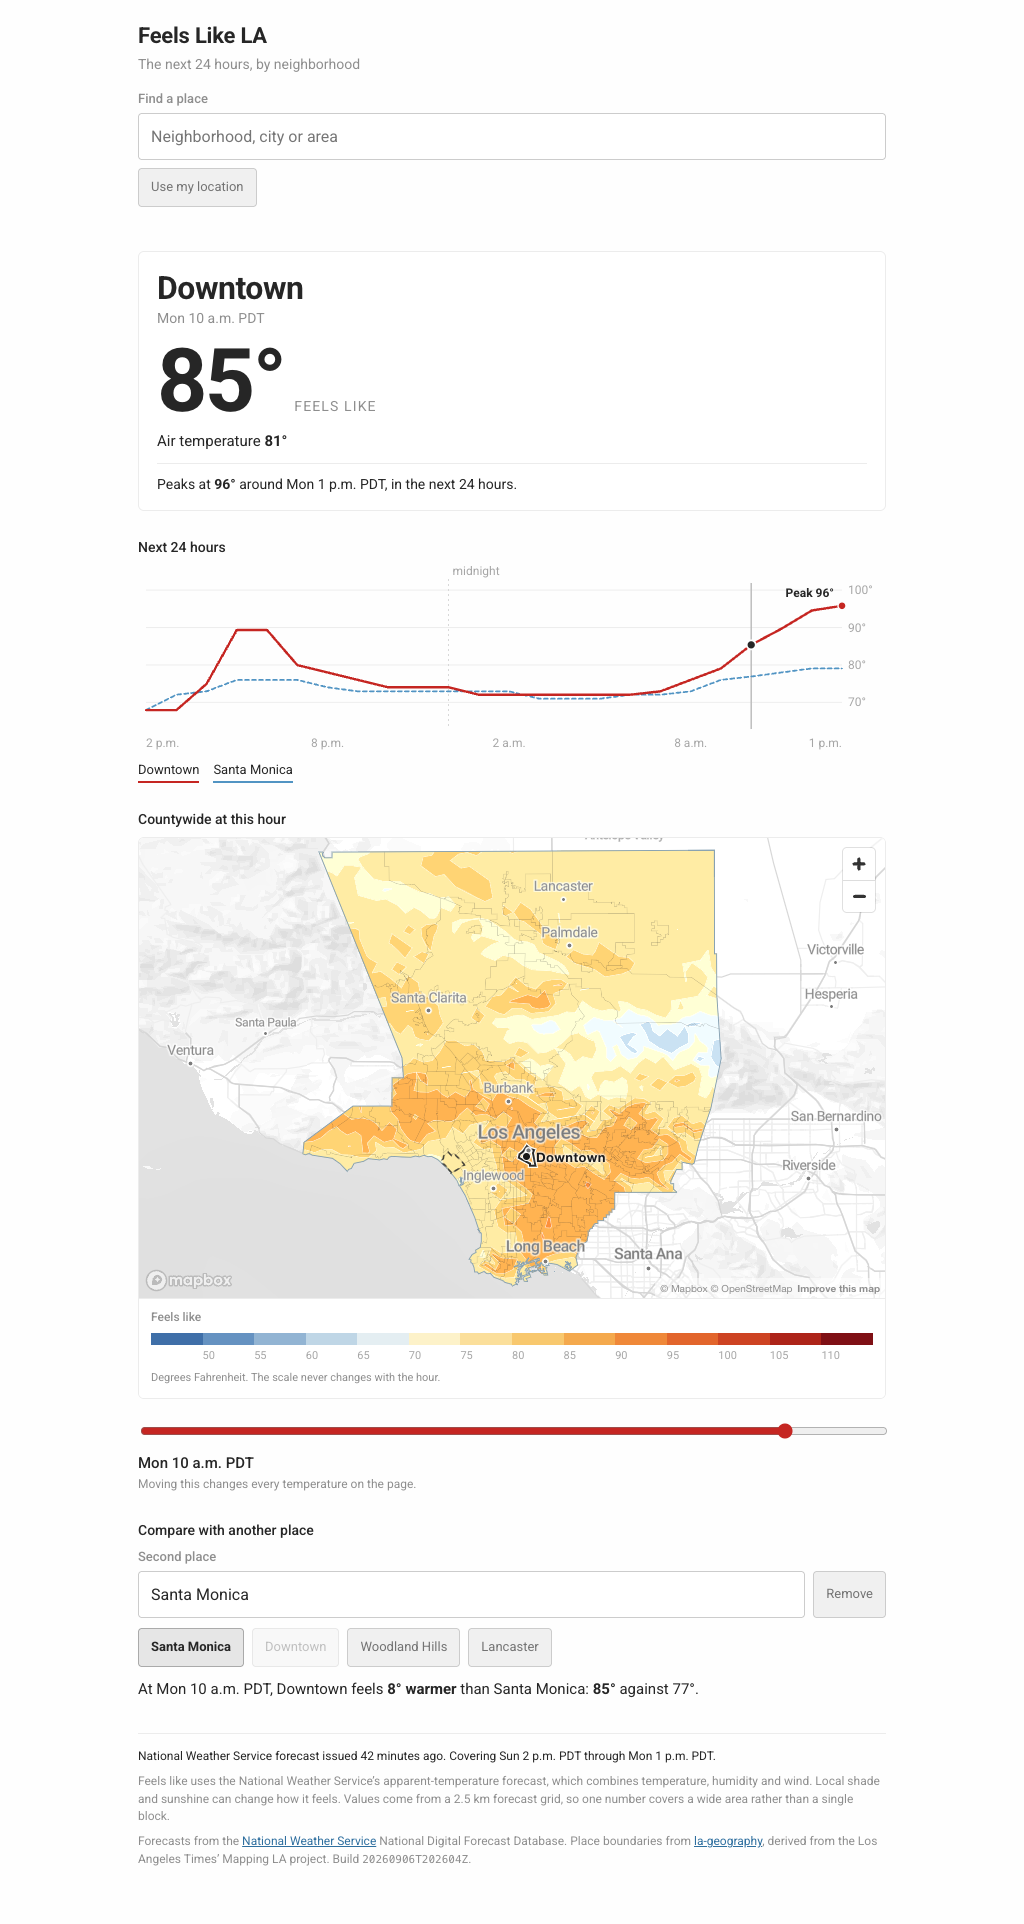
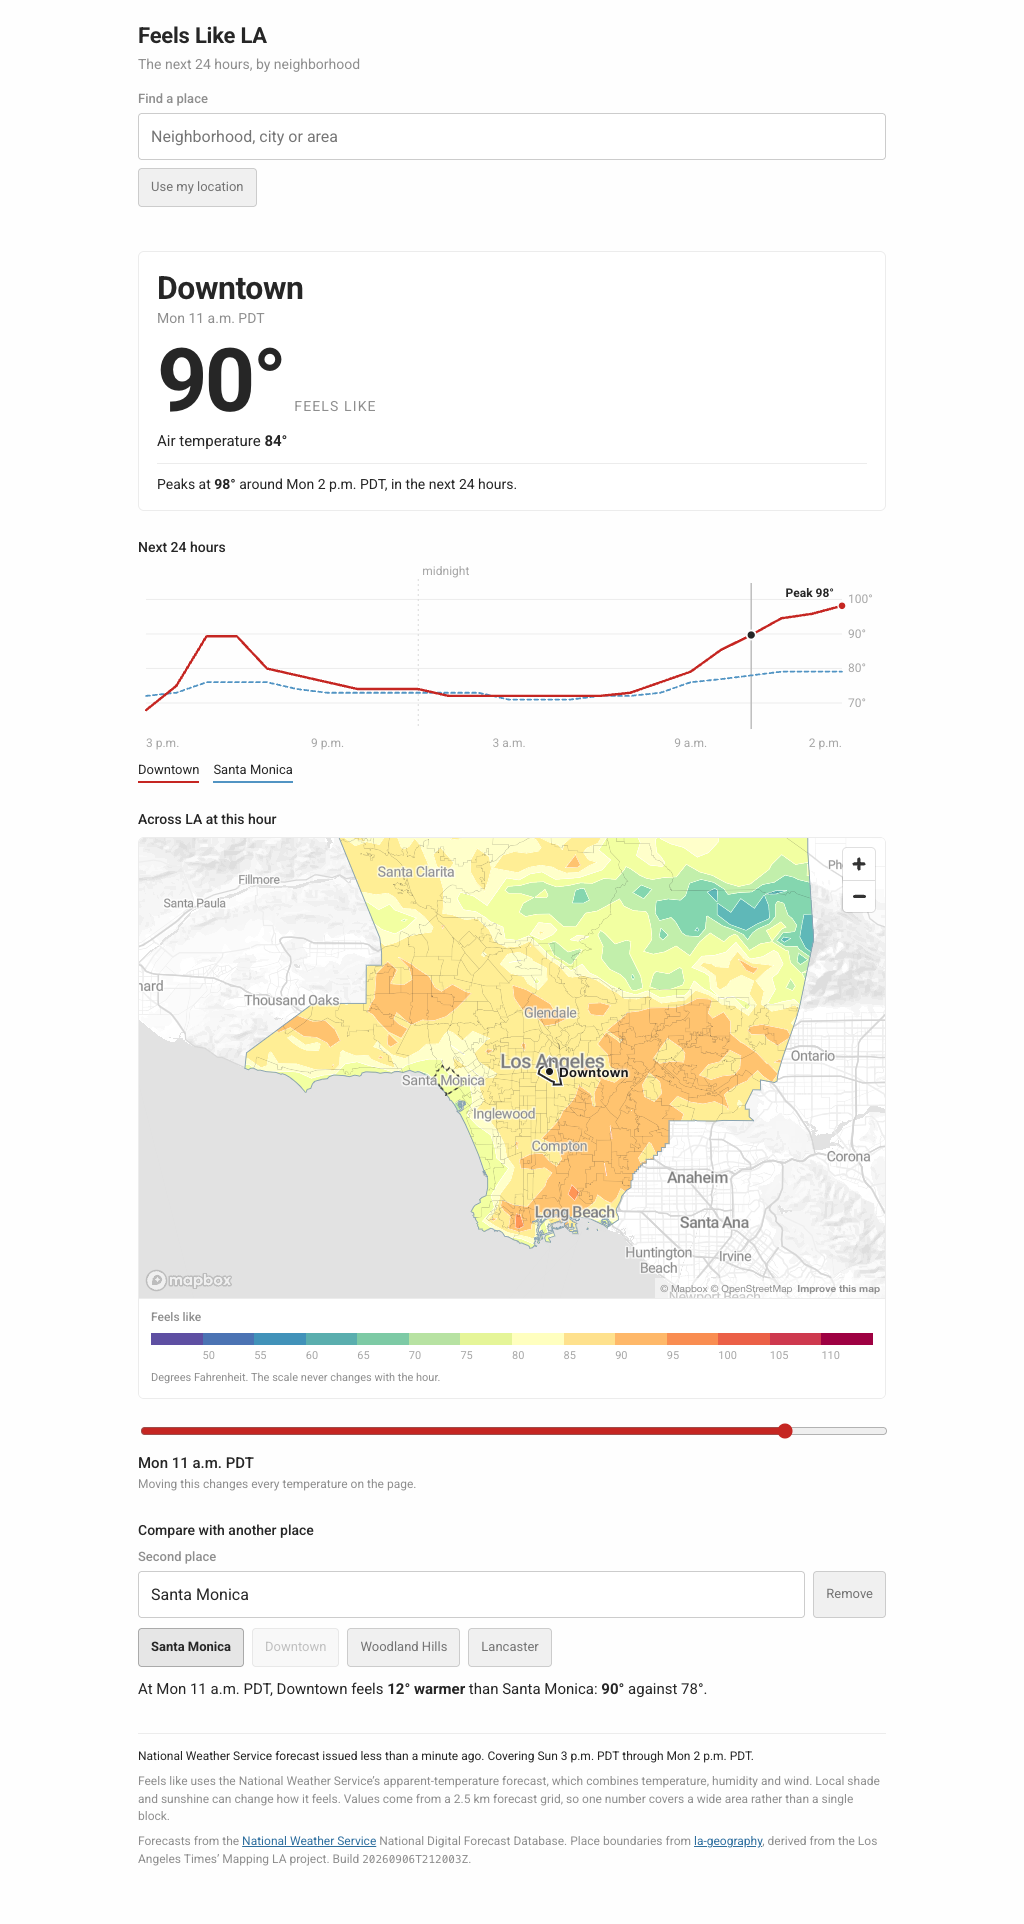
feat: open on metropolitan LA and switch to a Spectral palette
Framing. The map opened on the county's legal extent, which reaches the
Antelope Valley and San Clemente Island and leaves the basin a smear
across a tall, mostly empty map. It now opens on a fixed metro LA view:
the San Gabriels across the top, the Ventura county line west, Chino
Hills and the Orange County beaches east and south.

Lancaster, Palmdale, Acton and Avalon are still in the place index, so a
reader can select a place this view does not contain, and a highlighted
outline they cannot see is a map that looks broken. The map now pans to
a selection outside the frame, keeping its zoom, and a reset control
brings LA back. A smoke check searches Lancaster by keyboard and asserts
the map went and got it. The map heading is no longer "Countywide",
because it is not.

Framing from a constant also means the first paint is the right view
rather than a guessed center that jumped when county.geojson landed.

Palette. ColorBrewer Spectral, reversed, resampled from its 11 stops to
14 classes. Resampled by perceptual arc length, not by evenly spaced
index: Spectral's curve barely moves through its pale middle, and an
evenly indexed sample put two classes 7.3 apart in Lab, under the 8.0
the validator requires. By arc length the closest pair is 16.4, and the
samples still land on Spectral's endpoints and its #ffffbf midpoint.

Two properties of the new ramp are recorded in the config, because they
are not true of the ramp it replaced: it is not monotonic in lightness,
[…]

diff --git a/web/src/map.ts b/web/src/map.ts
@@ -25,9 +25,24 @@ const TOKEN = import.meta.env.VITE_MAPBOX_TOKEN ?? '';
 const STYLE =
   import.meta.env.VITE_MAPBOX_STYLE ?? 'mapbox://styles/stiles/cmiuh91nz003q01su2wd5b64l';
 
-// A first view for the moment before the county silhouette arrives, after which the map
-// frames itself from the real geometry.
-const OPENING_VIEW = { center: [-118.29, 34.19] as [number, number], zoom: 8.1 };
+/**
+ * The opening view: metropolitan Los Angeles, not the county's legal extent.
+ *
+ * The San Gabriels across the top, the Ventura county line and Point Mugu on the west,
+ * Chino Hills and the Orange County beaches on the east and south. It is where nearly
+ * everyone who opens this lives, and it is where the interesting gradient is: forty
+ * degrees between the beach and the valley on a September afternoon.
+ *
+ * What it leaves out is deliberate. The county reaches to the Antelope Valley and out to
+ * San Clemente Island, and framing all of that makes the basin a smear across the middle
+ * of a tall, mostly empty map. Lancaster, Palmdale, Acton and Avalon are all still in the
+ * place index and still searchable; the map pans to a selection that starts off screen,
+ * and the reset control brings this view back.
+ */
+const LA_VIEW: [[number, number], [number, number]] = [
+  [-119.15, 33.61],
+  [-117.52, 34.48],
+];
 
 // Read from the style at build time and overridden here rather than in Studio, because
 // these are this product's needs rather than the style's defaults.
@@ -76,8 +91,11 @@ export function createMap(container: HTMLElement, bundle: Bundle): MapView {
     // mercator: flat, predictable under fitBounds, and matching the projection the
     // contours were generated for.
     projection: 'mercator',
-    center: OPENING_VIEW.center,
-    zoom: OPENING_VIEW.zoom,
+    // Framed from the constant above rather than from the county geometry, so the first
+    // paint is already the right view instead of a guessed center that jumps when
+    // county.geojson lands.
+    bounds: LA_VIEW,
+    fitBoundsOptions: { padding: 0 },
     minZoom: 7.4,
     // The grid is 2.5 km. Past this the reader is zooming into a band edge that is an
     // interpolation, not a boundary anyone could stand on.
@@ -111,7 +129,6 @@ export function createMap(container: HTMLElement, bundle: Bundle): MapView {
   const applied: { frame?: unknown; outlines?: unknown; county?: unknown; filters?: string } = {};
   let basemap = withBasemap;
   let installed = false;
-  let framed = false;
   let fellBack = false;
 
   /** Add our sources and layers to whichever style is loaded. */
@@ -197,6 +214,28 @@ export function createMap(container: HTMLElement, bundle: Bundle): MapView {
   });
 
   const labels = createLabels(container, map, bundle, () => basemap);
+  const reset = createReset(container, map);
+
+  /**
+   * Bring a selection into view if the LA frame does not contain it.
+   *
+   * The Antelope Valley and Catalina are outside the opening view but inside the place
+   * index, so a reader who searches Lancaster would otherwise get a highlighted outline
+   * they cannot see and a map that looks broken. Panning keeps the current zoom: the
+   * question is where, not how close.
+   */
+  function reveal(point: { longitude: number; latitude: number }): void {
+    const screen = map.project([point.longitude, point.latitude]);
+    const margin = 48;
+    const outside =
+      screen.x < margin ||
+      screen.y < margin ||
+      screen.x > container.clientWidth - margin ||
+      screen.y > container.clientHeight - margin;
+    if (!outside) return;
+    map.easeTo({ center: [point.longitude, point.latitude], duration: 600 });
+    reset.offer();
+  }
 
   return {
     showFrame(frame) {
@@ -210,22 +249,15 @@ export function createMap(container: HTMLElement, bundle: Bundle): MapView {
     showCounty(collection) {
       wanted.county = collection;
       flush();
-      // Frame the county from its own geometry rather than a zoom chosen by eye, so a
-      // phone, a tablet and a desktop all open on the whole county. The Channel Islands
-      // are in the boundary and would pull the frame far south, so the bounds come from
-      // the mainland part.
-      const bounds = mainlandBounds(collection);
-      if (bounds && !framed) {
-        framed = true;
-        map.fitBounds(bounds, { padding: 12, animate: false, maxZoom: 10 });
-      }
       labels.place();
     },
     highlight(selection, comparison) {
       wanted.selected = selection?.slug ?? '';
       wanted.comparison = comparison ?? '';
       flush();
-      labels.select(selection ? mark(bundle, selection) : null);
+      const point = selection ? mark(bundle, selection) : null;
+      labels.select(point);
+      if (point) reveal(point);
     },
     resize() {
       map.resize();
@@ -473,44 +505,33 @@ function rendered(map: MapboxMap, layer: string): number {
 }
 
 /**
- * Bounds of the largest ring, which is the mainland county.
+ * A way back to the LA frame, shown only once the map has left it.
  *
- * Including Catalina and San Clemente would push the frame roughly 60 miles south and
- * leave the basin, where most readers are, in the top third of the map.
+ * A reader who pans to Palmdale, or who was taken there by a search, has no other way to
+ * recover the view they started with, and a control that is always there is one more
+ * thing to read on a phone.
  */
-function mainlandBounds(
-  collection: GeoJSON.FeatureCollection,
-): [[number, number], [number, number]] | null {
-  const geometry = collection.features[0]?.geometry;
-  if (!geometry) return null;
-  const polygons =
-    geometry.type === 'MultiPolygon'
-      ? geometry.coordinates
-      : geometry.type === 'Polygon'
-        ? [geometry.coordinates]
-        : [];
-  let best: GeoJSON.Position[] | null = null;
-  for (const polygon of polygons) {
-    const ring = polygon[0];
-    if (ring && (!best || ring.length > best.length)) best = ring;
-  }
-  if (!best) return null;
+function createReset(container: HTMLElement, map: MapboxMap) {
+  const button = document.createElement('button');
+  button.type = 'button';
+  button.className = 'map-reset';
+  button.textContent = 'Reset map';
+  button.hidden = true;
+  button.addEventListener('click', () => {
+    map.fitBounds(LA_VIEW, { padding: 0, duration: 600 });
+    button.hidden = true;
+  });
+  container.append(button);
 
-  let west = 180;
-  let south = 90;
-  let east = -180;
-  let north = -90;
-  for (const point of best) {
-    const [longitude, latitude] = point as [number, number];
-    west = Math.min(west, longitude);
-    east = Math.max(east, longitude);
-    south = Math.min(south, latitude);
-    north = Math.max(north, latitude);
+  // A drag or a zoom by the reader also earns the button. `moveend` fires for our own
+  // eased moves too, so the offer is idempotent.
+  map.on('dragend', () => offer());
+  map.on('zoomend', () => offer());
+
+  function offer(): void {
+    button.hidden = false;
   }
-  return [
-    [west, south],
-    [east, north],
-  ];
+  return { offer };
 }
 
 function overlaps(a: DOMRect, b: DOMRect): boolean {

diff --git a/web/src/main.ts b/web/src/main.ts
@@ -182,7 +182,8 @@ async function attachMap(bundle: Bundle): Promise<MapView | null> {
     createLegend(document.querySelector('#legend') as HTMLElement, bundle);
     container.setAttribute(
       'aria-label',
-      'Map of apparent temperature across Los Angeles County at the selected hour.',
+      'Map of apparent temperature across metropolitan Los Angeles at the selected hour. ' +
+        'It pans to a selected place outside this view.',
     );
     window.addEventListener('resize', () => view.resize());
     return view;

diff --git a/web/src/styles.css b/web/src/styles.css
@@ -445,6 +445,25 @@ a {
   background: #1a1a1a;
 }
 
+.map-reset {
+  position: absolute;
+  top: 10px;
+  left: 10px;
+  padding: 5px 9px;
+  border: 1px solid var(--rule);
+  border-radius: 4px;
+  background: #fff;
+  box-shadow: 0 1px 2px rgb(0 0 0 / 12%);
+  font: inherit;
+  font-size: 12px;
+  color: #262626;
+  cursor: pointer;
+}
+
+.map-reset:hover {
+  background: #f4f4f4;
+}
+
 /* Mapbox's controls, quieter. The attribution and logo stay: they are a condition of
    using the tiles. */
 #map-shell .mapboxgl-ctrl-attrib,

diff --git a/web/index.html b/web/index.html
@@ -36,7 +36,7 @@
       </section>
 
       <section class="panel map-panel" aria-labelledby="map-heading">
-        <h2 class="panel-heading" id="map-heading">Countywide at this hour</h2>
+        <h2 class="panel-heading" id="map-heading">Across LA at this hour</h2>
         <div id="map-shell">
           <div id="map" role="img"></div>
           <div id="legend" class="legend"></div>

diff --git a/docs/interface.md b/docs/interface.md
@@ -49,6 +49,24 @@ kept, so the protection that matters is a URL restriction on the token in the Ma
 account rather than secrecy. With `VITE_MAPBOX_TOKEN` empty the app takes the fallback
 path deliberately, which is how a contributor without a token gets a working map.
 
+**The map opens on metropolitan LA, not on the county.** The San Gabriels across the top,
+the Ventura county line on the west, Chino Hills and the Orange County beaches on the east
+and south. The county's legal extent reaches the Antelope Valley and out to San Clemente
+Island, and framing all of it makes the basin a smear across the middle of a tall, mostly
+empty map. This view is where nearly every reader is, and it is where the gradient is:
+forty degrees between the beach and the valley on a September afternoon.
+
+The consequence has to be handled rather than accepted. Lancaster, Palmdale, Acton and
+Avalon are in the place index and searchable, so a reader can select a place the opening
+view does not contain, and a highlighted outline they cannot see is a map that looks
+broken. So the map pans to a selection that falls outside the frame, keeping its zoom —
+the question is where, not how close — and a reset control appears to bring LA back. A
+smoke check searches Lancaster by keyboard and asserts the map went and got it.
+
+Framing from a constant rather than from the county geometry also means the first paint is
+already the right view, instead of a guessed center that jumps when `county.geojson`
+lands.
+
 **Labels are HTML, not a symbol layer.** The selected place is always labeled by us, in
 the page's own webfont: it is the one name the reader is hunting for, and no basemap knows
 which place is selected. The curated context labels only appear when there is no basemap
@@ -124,8 +142,9 @@ daylight-saving change, and search ranking.
 
 `make web-smoke` drives the built bundle in the installed Chrome against the real published
 build. It checks a phone and a desktop viewport, a direct place link with a comparison in
-the query, an unknown slug, keyboard-only search, arrow keys on the slider, a run with
-every Mapbox request aborted, and a run with WebGL disabled. It asks the map what it
+the query, an unknown slug, keyboard-only search, a place outside the opening frame, arrow
+keys on the slider, a run with every Mapbox request aborted, and a run with WebGL
+disabled. It asks the map what it
 actually drew rather than trusting that it did, through a `window.feelslike` handle that
 is also useful in the console.
 

diff --git a/docs/pipeline.md b/docs/pipeline.md
@@ -78,10 +78,16 @@ polygon, which the map uses for the coastline and for the no-data fill beneath t
 per temperature class, including both open-ended ones, so the map fills and the legend are
 built from the same values and cannot drift apart. Validation checks more than presence:
 every class the frames actually draw must have a color, and the no-data gray must sit at
-least 8 units of CIE76 distance from every band. That threshold was calibrated against a
-real mistake in this repo, an `#e5e5e4` gray beside a `#dfe9e4` mild band, 4.2 apart and
-indistinguishable on a phone. Adding a hotter class means appending a color, never
-recoloring an existing one.
+least 8 units of CIE76 distance from every band, as must any two adjacent classes. That
+threshold was calibrated against a real mistake in this repo, an `#e5e5e4` gray beside a
+`#dfe9e4` mild band, 4.2 apart and indistinguishable on a phone.
+
+The palette is ColorBrewer Spectral reversed, resampled from its 11 stops to 14 classes.
+The adjacency check earned its keep here: sampling Spectral at evenly spaced indexes put
+two classes 7.3 apart, because the curve barely moves through its pale middle. Resampling
+by distance along the curve instead lifts the closest pair to 16.4 and still lands on
+Spectral's endpoints and its `#ffffbf` midpoint. Being a diverging ramp, it is anchored at
+both ends, so adding a hotter class means recoloring rather than appending.
 
 ## Cell ids
 
